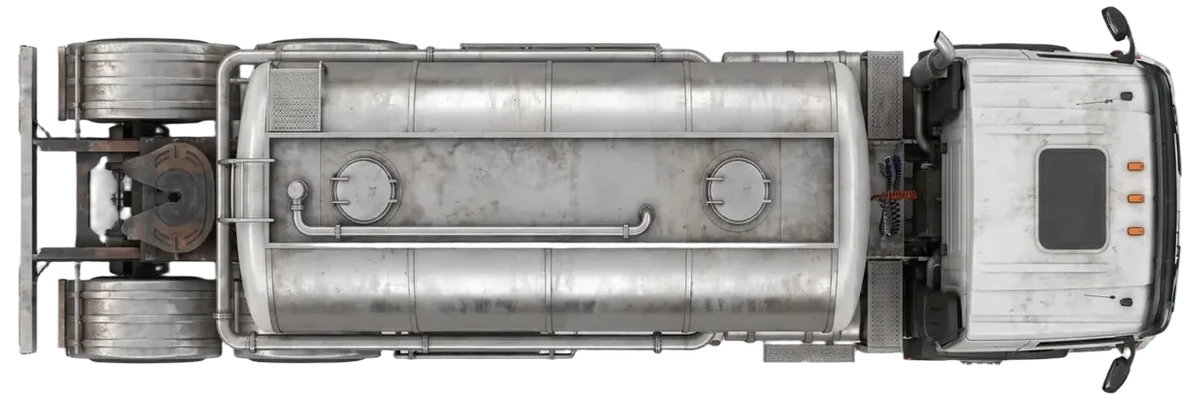
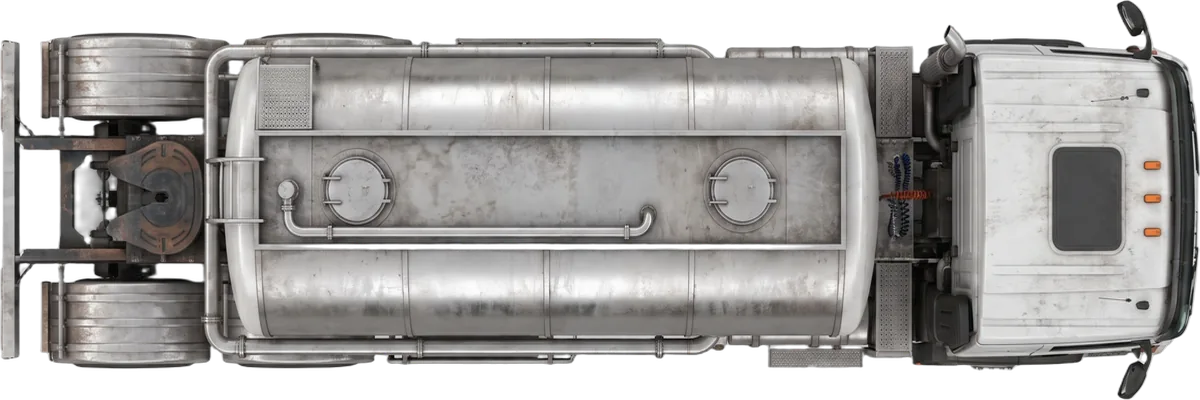
Revert "Normalize all vehicle art to the documented 97% rule"
This reverts commit 8d09a4fb6a7544abf13c35d09a18acfe6a4739b5.

diff --git a/js/car-art.data.js b/js/car-art.data.js
@@ -16,7 +16,7 @@ export const CAR_ART_GEOMETRY = {
   'assets/cars/hero-airtail-purple-yellow.webp': { nose: 94.1, tail: 5.9, fTop: 8.8, fBot: 90.3, rTop: 7.8, rBot: 91.8 },
   'assets/cars/hero-airtail-red.webp': { nose: 94, tail: 5.9, fTop: 9, fBot: 90, rTop: 8, rBot: 91.8 },
   'assets/cars/hero-airtail-stripe.webp': { nose: 94, tail: 5.9, fTop: 9, fBot: 90, rTop: 8, rBot: 91.8 },
-  'assets/cars/hero-canopy-green.webp': { nose: 98.4, tail: 1.5, fTop: 12.3, fBot: 87.8, rTop: 7, rBot: 92.8 },
+  'assets/cars/hero-canopy-green.webp': { nose: 96, tail: 4.3, fTop: 13.5, fBot: 85, rTop: 8.5, rBot: 90 },
   'assets/cars/hero-classic-blue-stripe.webp': { nose: 98.4, tail: 1.5, fTop: 8.8, fBot: 90.3, rTop: 11.5, rBot: 88.8 },
   'assets/cars/hero-classic-cream.webp': { nose: 98.4, tail: 1.5, fTop: 13.3, fBot: 87.3, rTop: 13.3, rBot: 87.5 },
   'assets/cars/hero-classic-white-green.webp': { nose: 98.4, tail: 1.5, fTop: 12, fBot: 86.5, rTop: 15.8, rBot: 84 },
@@ -34,34 +34,34 @@ export const CAR_ART_GEOMETRY = {
   'assets/cars/hero-sedan-green.webp': { nose: 98.4, tail: 1.5, fTop: 15.8, fBot: 85.5, rTop: 16, rBot: 85.5 },
   'assets/cars/hero-sports-cyan.webp': { nose: 98.4, tail: 1.5, fTop: 13.3, fBot: 86, rTop: 12.3, rBot: 87.8 },
   'assets/cars/hero-spyder-blue.webp': { nose: 98.4, tail: 1.5, fTop: 11.8, fBot: 88.3, rTop: 11.5, rBot: 88.5 },
-  'assets/cars/library-sedans-1785067674835-12-orange-coupe.webp': { nose: 98.4, tail: 1.5, fTop: 13, fBot: 86.8, rTop: 13, rBot: 87 },
-  'assets/cars/library-sedans-1785067674835-13-red-hatch.webp': { nose: 97.9, tail: 2, fTop: 2.3, fBot: 98, rTop: 2, rBot: 98 },
-  'assets/cars/library-sedans-1785067674835-14-green-hatch.webp': { nose: 98.4, tail: 1.5, fTop: 3, fBot: 97.3, rTop: 3, rBot: 97.3 },
+  'assets/cars/library-sedans-1785067674835-12-orange-coupe.webp': { nose: 97.1, tail: 1.5, fTop: 12.5, fBot: 85.3, rTop: 12.5, rBot: 85.5 },
+  'assets/cars/library-sedans-1785067674835-13-red-hatch.webp': { nose: 88.3, tail: 11.6, fTop: 11.8, fBot: 88, rTop: 11.5, rBot: 88.3 },
+  'assets/cars/library-sedans-1785067674835-14-green-hatch.webp': { nose: 87.9, tail: 11.9, fTop: 13, fBot: 87, rTop: 13, rBot: 87 },
   'assets/cars/library-sedans-1785067674835-15-green-coupe.webp': { nose: 98.4, tail: 1.5, fTop: 12.8, fBot: 87.8, rTop: 19.3, rBot: 81 },
-  'assets/cars/library-sedans-1785067674835-5-rust-weathered.webp': { nose: 98.4, tail: 1.5, fTop: 15.8, fBot: 85.8, rTop: 16, rBot: 85.5 },
-  'assets/cars/library-sedans-1785067674835-6-police.webp': { nose: 98.4, tail: 1.5, fTop: 15.8, fBot: 85.8, rTop: 16, rBot: 85.5 },
-  'assets/cars/library-sedans-1785067674835-7-orange-suv.webp': { nose: 98.4, tail: 1.5, fTop: 7.5, fBot: 92.3, rTop: 9, rBot: 89.5 },
+  'assets/cars/library-sedans-1785067674835-5-rust-weathered.webp': { nose: 96.9, tail: 3, fTop: 16.8, fBot: 84.8, rTop: 17, rBot: 84.5 },
+  'assets/cars/library-sedans-1785067674835-6-police.webp': { nose: 96.9, tail: 3, fTop: 16.8, fBot: 84.8, rTop: 17, rBot: 84.5 },
+  'assets/cars/library-sedans-1785067674835-7-orange-suv.webp': { nose: 97.5, tail: 2.4, fTop: 8.3, fBot: 91.5, rTop: 9.5, rBot: 88.8 },
   'assets/cars/traffic-sedan-13.webp': { nose: 98.3, tail: 1.6, fTop: 16.5, fBot: 83.5, rTop: 15.8, rBot: 84 },
   'assets/cars/traffic-sedan-25.webp': { nose: 98.4, tail: 1.5, fTop: 14.2, fBot: 83.8, rTop: 14, rBot: 84 },
   'assets/cars/traffic-sedan-28.webp': { nose: 98.4, tail: 1.5, fTop: 14.2, fBot: 83.8, rTop: 14, rBot: 84 },
   'assets/cars/traffic-sedan-6.webp': { nose: 98.3, tail: 1.6, fTop: 9.8, fBot: 89.5, rTop: 9, rBot: 90.3 },
   'assets/cars/traffic-sedan-7.webp': { nose: 98.3, tail: 1.6, fTop: 13, fBot: 86.8, rTop: 13.3, rBot: 85.8 },
-  'assets/cars/traffic-sedan-new-lightblue.webp': { nose: 98.4, tail: 1.5, fTop: 18.3, fBot: 82.5, rTop: 17.5, rBot: 83 },
-  'assets/cars/traffic-truck-1.webp': { nose: 98.4, tail: 1.5, fTop: 7, fBot: 89.5, rTop: 1.5, rBot: 98.3 },
-  'assets/cars/traffic-truck-2.webp': { nose: 98.4, tail: 1.5, fTop: 6.5, fBot: 92.8, rTop: 1.5, rBot: 97.8 },
-  'assets/cars/traffic-truck-3.webp': { nose: 98.4, tail: 1.5, fTop: 2.3, fBot: 97.5, rTop: 10.3, rBot: 90 },
-  'assets/cars/traffic-truck-4.webp': { nose: 98.4, tail: 1.6, fTop: 10.8, fBot: 92.3, rTop: 16.5, rBot: 85 },
-  'assets/cars/traffic-truck-5.webp': { nose: 98.4, tail: 1.5, fTop: 1.5, fBot: 98.3, rTop: 9.5, rBot: 90.8 },
-  'assets/cars/traffic-truck-6.webp': { nose: 98.4, tail: 1.6, fTop: 36.8, fBot: 64.3, rTop: 4.8, rBot: 96 },
-  'assets/cars/traffic-truck-7.webp': { nose: 98.4, tail: 1.5, fTop: 43, fBot: 56.8, rTop: 4.8, rBot: 94.8 },
-  'assets/cars/traffic-truck-8.webp': { nose: 98.3, tail: 1.6, fTop: 21.5, fBot: 77, rTop: 5.3, rBot: 93.8 },
+  'assets/cars/traffic-sedan-new-lightblue.webp': { nose: 96.8, tail: 3.1, fTop: 19, fBot: 81.3, rTop: 18.3, rBot: 81.5 },
+  'assets/cars/traffic-truck-1.webp': { nose: 99.9, tail: 0, fTop: 5.8, fBot: 90.8, rTop: 0, rBot: 99.8 },
+  'assets/cars/traffic-truck-2.webp': { nose: 99.9, tail: 0, fTop: 5, fBot: 94, rTop: 0, rBot: 99.3 },
+  'assets/cars/traffic-truck-3.webp': { nose: 99.8, tail: 0, fTop: 0.5, fBot: 98.8, rTop: 8.8, rBot: 91 },
+  'assets/cars/traffic-truck-4.webp': { nose: 99.9, tail: 0.1, fTop: 9.5, fBot: 93.5, rTop: 15.5, rBot: 86 },
+  'assets/cars/traffic-truck-5.webp': { nose: 99.9, tail: 0, fTop: 0, fBot: 99.8, rTop: 8.3, rBot: 92 },
+  'assets/cars/traffic-truck-6.webp': { nose: 99.8, tail: 0, fTop: 36.3, fBot: 64.8, rTop: 3.5, rBot: 97.3 },
+  'assets/cars/traffic-truck-7.webp': { nose: 99.9, tail: 0, fTop: 42.8, fBot: 56.8, rTop: 3.5, rBot: 96 },
+  'assets/cars/traffic-truck-8.webp': { nose: 99.9, tail: 0.4, fTop: 20.8, fBot: 78, rTop: 4, rBot: 95.3 },
   'assets/cars/traffic-truck-new-rusty.webp': { nose: 98.4, tail: 1.5, fTop: 5.5, fBot: 94.3, rTop: 6, rBot: 95 },
-  'assets/cars/traffic-truck-new-white.webp': { nose: 95.6, tail: 4.3, fTop: 6.8, fBot: 93.3, rTop: 7.8, rBot: 92 },
+  'assets/cars/traffic-truck-new-white.webp': { nose: 97, tail: 2.9, fTop: 5.3, fBot: 94.5, rTop: 6.5, rBot: 93.3 },
   'assets/cars/traffic-truck-new.webp': { nose: 98.4, tail: 1.5, fTop: 10.3, fBot: 88, rTop: 10.3, rBot: 88 },
-  'assets/cars/truck-flatbed-green.webp': { nose: 98.4, tail: 1.5, fTop: 3, fBot: 97, rTop: 12.3, rBot: 88.8 },
-  'assets/cars/truck-mixer-cream.webp': { nose: 96.2, tail: 3.9, fTop: 8.8, fBot: 91.3, rTop: 1.5, rBot: 98.3 },
-  'assets/cars/truck-offroad-pickup-grey.webp': { nose: 90.6, tail: 9.3, fTop: 4.5, fBot: 95, rTop: 4.3, rBot: 95 },
-  'assets/cars/truck-panel-orange.webp': { nose: 98.4, tail: 1.5, fTop: 2, fBot: 98, rTop: 3.3, rBot: 93.5 },
+  'assets/cars/truck-flatbed-green.webp': { nose: 97.1, tail: 3, fTop: 4.3, fBot: 95.5, rTop: 13.3, rBot: 87.5 },
+  'assets/cars/truck-mixer-cream.webp': { nose: 94.2, tail: 5.7, fTop: 10.3, fBot: 89.5, rTop: 3.5, rBot: 96.3 },
+  'assets/cars/truck-offroad-pickup-grey.webp': { nose: 91.8, tail: 8.1, fTop: 3, fBot: 96.5, rTop: 3, rBot: 96.5 },
+  'assets/cars/truck-panel-orange.webp': { nose: 97.3, tail: 2.7, fTop: 3, fBot: 96.8, rTop: 4.3, rBot: 92.3 },
   'assets/cars/truck-rollback-orange.webp': { nose: 93.2, tail: 6.8, fTop: 6.5, fBot: 96.8, rTop: 1.5, rBot: 98.3 },
-  'assets/cars/truck-tanker-steel.webp': { nose: 98.4, tail: 1.5, fTop: 19, fBot: 83.3, rTop: 14.8, rBot: 85 },
+  'assets/cars/truck-tanker-steel.webp': { nose: 98.9, tail: 1, fTop: 18.8, fBot: 83.8, rTop: 14.5, rBot: 85.5 },
 };

diff --git a/docs/HEIST-PLAN.md b/docs/HEIST-PLAN.md
@@ -171,28 +171,9 @@ keep the free equip), not *which car a mission uses*.
   corners rather than its baked lamps: locating the lamps themselves was
   attempted twice (absolute brightness, then a per-car brightness
   percentile) and abandoned — both pick up the whole panel on white and
-  cream bodies.
-- **The art itself is now normalized to the 97% rule**
-  (`tools/normalize-car-art.mjs`, `--check` reports without writing). That
-  rule was documented but never enforced, which is what let the assets
-  drift in the first place; it's now executable, so a future upload can be
-  checked rather than trusted. 22 of 54 files were off spec and were
-  re-cropped, rescaled and re-centred; the other 32 were already correct
-  and left byte-identical rather than churned through a lossy re-encode.
-  Car nose positions tightened from 87.9%–99.9% to 94%–98.5%.
-  *(The residual spread is correct, not leftover drift: the spec caps
-  boxy/wide vehicles at 97% HEIGHT rather than length so nothing is ever
-  stretched, so a wide car legitimately stops short of 97% width — the
-  five airtails and classic.webp all sit there. That's exactly why the
-  measured-anchor system above stays load-bearing rather than being
-  replaced by normalization; the two compose.)*
-  WebP quality 85 was chosen by measurement: against a q95 reference it
-  differs by a mean of 1.0/255 per channel — invisible at the ~130px a car
-  actually renders at — while keeping the asset set at 2.2MB against 2.1MB
-  before, so the whole pass is roughly size-neutral. q92 cost +25% total
-  size for a difference measuring 0.4/255. `classic.webp` sat 0.5% off
-  spec and was deliberately left alone: it's the most-seen asset in the
-  game and re-encoding it for half a percent is pure loss.
+  cream bodies. **The underlying data problem is still open**: several
+  shipped assets aren't normalized to the documented 97% rule, and
+  re-exporting them to spec would let one geometry serve everything.
   *(Fixed alongside this: `skinFor()` returned `car.skin` verbatim, which
   never actually contained the photo — `photo` lives one level up, on the
   car itself. Completely invisible until now because every car shipped
